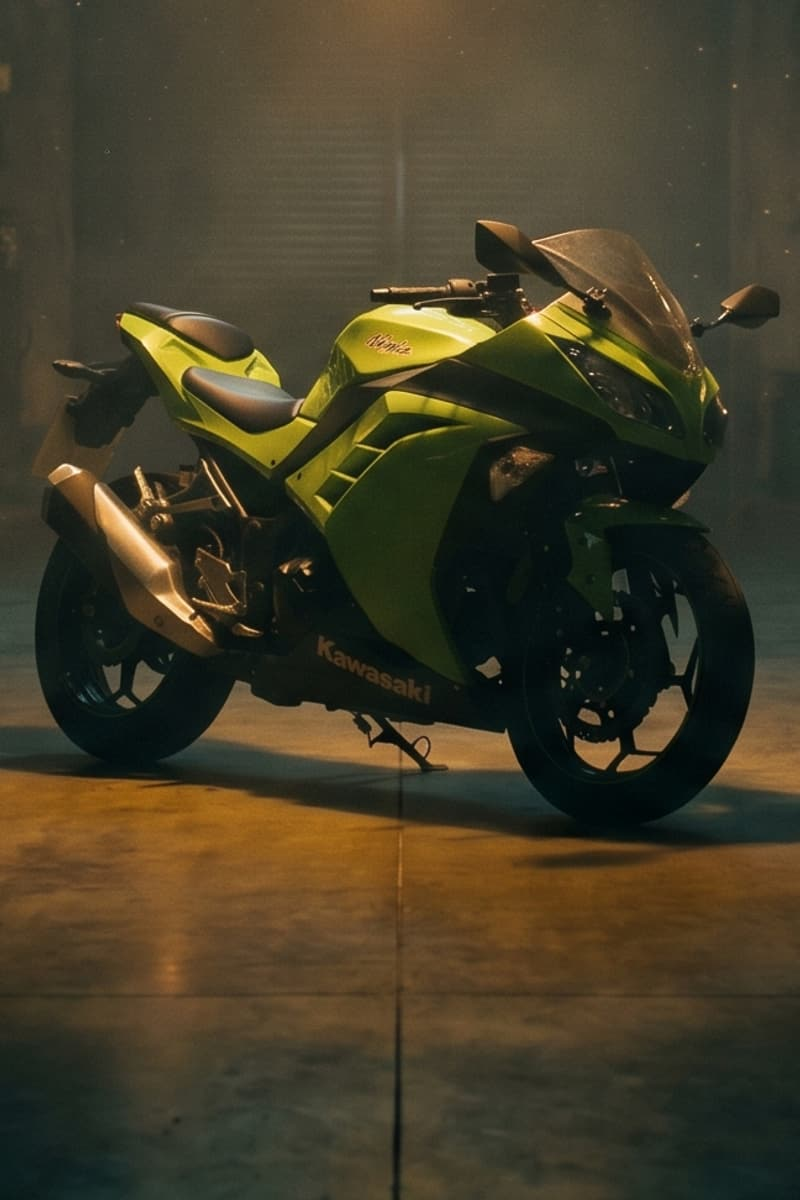
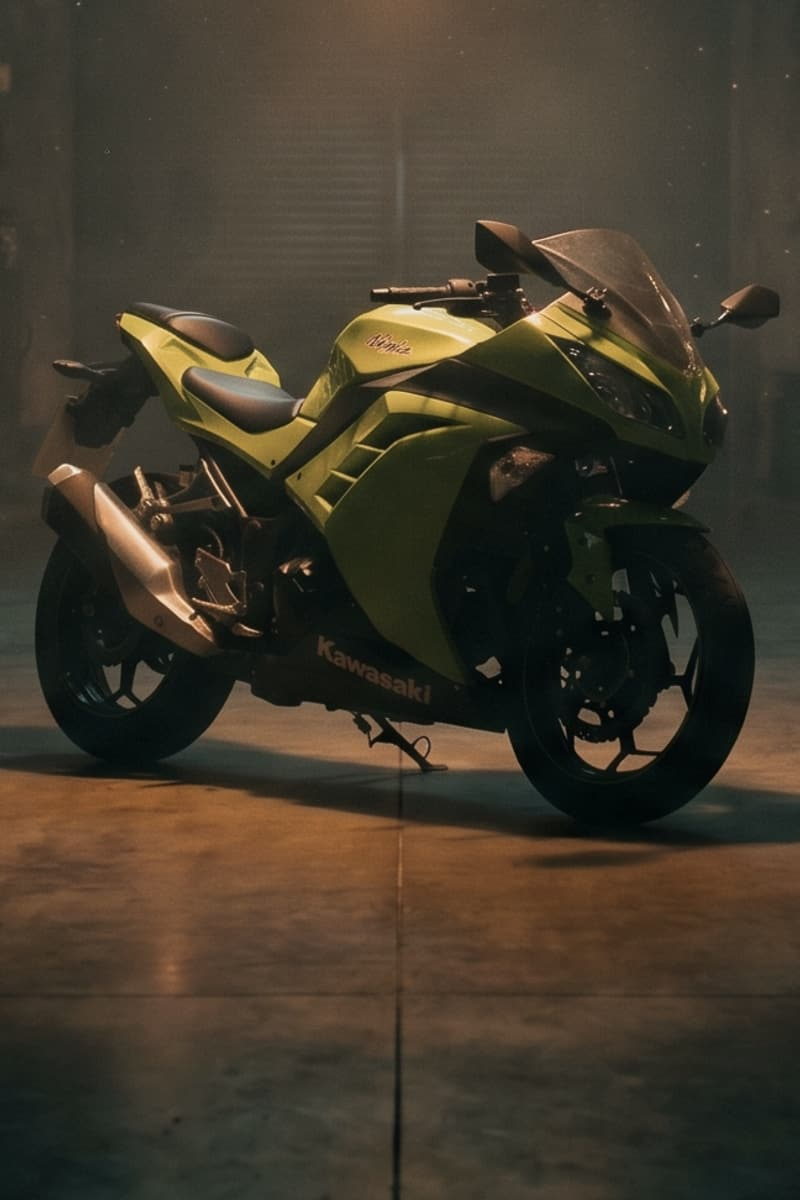
Hero: verde menos neon + titulo 2x maior + pre-load fotos detalhe
Imagem:
- Sharp.modulate({ saturation: 0.72, brightness: 0.95, hue: -8 })
- Dessatura o verde-limao gritante da Ninja
- Atmosfera mais sofisticada e menos neon

Tipografia hero:
- font-size clamp(110px, 28vw, 320px) (antes 68-196px)
- line-height 0.86 + letter-spacing -0.03em
- Titulo "DANILO MOTOS" ocupa 2x mais espaco na tela

Redundancia removida:
- "Euclides da Cunha · BA" tirado do header (deixava 2 linhas no brand)
- "Euclides da Cunha · Bahia" tirado do hero (espaco pro nome maior)
- Mantido APENAS no footer (link pra Google Maps — utilidade real)

Carrossel moto.html:
- TODAS as 5 fotos da moto sao pre-carregadas eager
- Primeira: fetchpriority="high" (LCP)
- Demais: fetchpriority="low" (paralelo sem competir)
- Antes: imagens 1-4 com loading="lazy" so carregavam ao clicar na seta

Confirmado via Playwright: 5/5 fotos loaded ao abrir XRE 300.

diff --git a/assets/css/style.css b/assets/css/style.css
@@ -371,18 +371,18 @@ header {
 .hero__title {
   font-family: var(--font-display);
   font-weight: 400;
-  font-size: clamp(68px, 18vw, 196px);
-  line-height: 0.88;
-  letter-spacing: -0.025em;
+  font-size: clamp(110px, 28vw, 320px);
+  line-height: 0.86;
+  letter-spacing: -0.03em;
   text-transform: uppercase;
   color: var(--cream);
   text-shadow:
-    0 4px 32px rgba(0, 0, 0, 0.7),
-    0 2px 8px rgba(0, 0, 0, 0.5);
+    0 4px 40px rgba(0, 0, 0, 0.75),
+    0 2px 10px rgba(0, 0, 0, 0.55);
   display: flex;
   flex-direction: column;
   align-items: center;
-  gap: 0.02em;
+  gap: 0.01em;
 }
 
 .hero__title .word {

diff --git a/assets/js/moto.js b/assets/js/moto.js
@@ -80,8 +80,11 @@ function renderCarousel(fotos) {
   let idx = 0;
   const fallback = fotos[0] || "";
 
+  // Numa pagina de detalhe o user QUER ver todas as fotos da moto.
+  // Carrega TODAS desde o inicio (eager): a primeira com prioridade alta,
+  // as demais em paralelo (sem lazy). Sao no maximo 5 fotos por moto.
   track.innerHTML = fotos.map((src, i) =>
-    `<img class="is-loading" src="${src||fallback}" ${i===0?'loading="eager" fetchpriority="high"':'loading="lazy"'} decoding="async" alt="Foto da moto" onload="this.classList.remove('is-loading');this.classList.add('is-loaded');" onerror="this.onerror=null;this.src='${IMG_PLACEHOLDER}';this.classList.remove('is-loading');this.classList.add('is-loaded');">`
+    `<img class="is-loading" src="${src||fallback}" loading="eager" ${i===0?'fetchpriority="high"':'fetchpriority="low"'} decoding="async" alt="Foto da moto" onload="this.classList.remove('is-loading');this.classList.add('is-loaded');" onerror="this.onerror=null;this.src='${IMG_PLACEHOLDER}';this.classList.remove('is-loading');this.classList.add('is-loaded');">`
   ).join("");
 
   // Imagens já em cache não disparam onload

diff --git a/moto.html b/moto.html
@@ -473,7 +473,7 @@
     </div>
   </footer>
 
-  <script type="module" src="assets/js/moto.js?v=20260521b"></script>
+  <script type="module" src="assets/js/moto.js?v=20260521h"></script>
   <script>
     document.getElementById("year").textContent = new Date().getFullYear();
 

diff --git a/assets/js/scroll.js b/assets/js/scroll.js
@@ -20,6 +20,7 @@ initCardReveal();
 // ------------------------------------------------------------
 function initHeroScroll() {
   const hero      = document.querySelector(".hero");
+  // Move o wrapper, não o __bg (que tem Ken Burns rodando)
   const heroMedia = document.querySelector(".hero__media");
   const heroBrand = document.querySelector(".hero__brand");
   const heroScroll = document.querySelector(".hero__scroll");